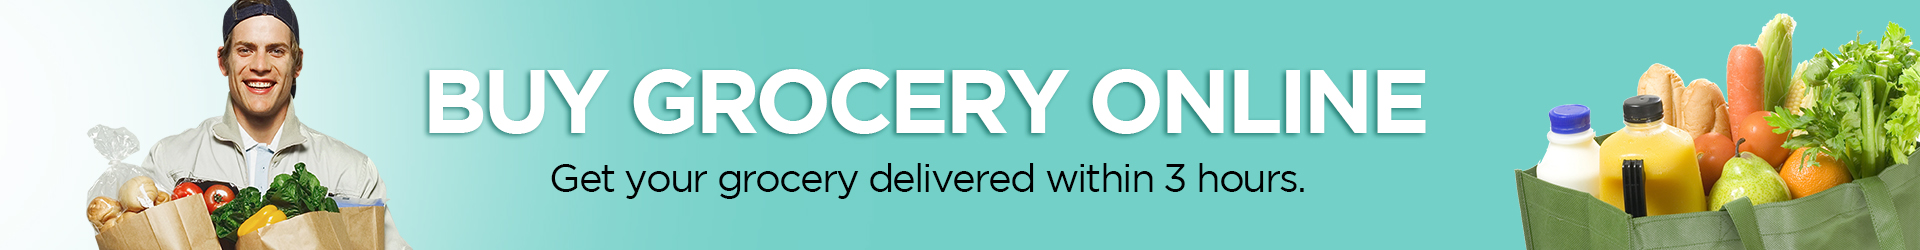
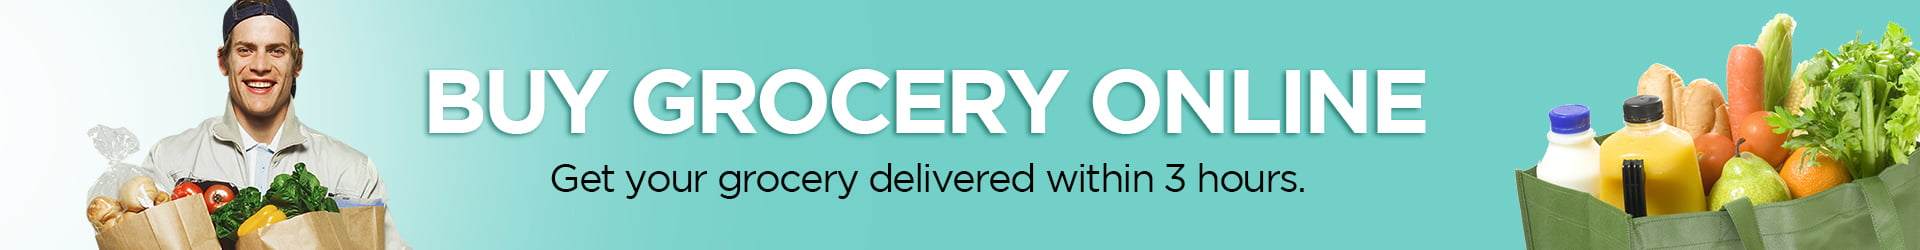
images optimized

diff --git a/src/components/Footer/Footer.tsx b/src/components/Footer/Footer.tsx
@@ -12,12 +12,8 @@ import { TypedSecondaryMenuQuery } from "./queries";
 
 // import easypaisa from "../../images/easypaisa.png";
 // import facebook from "../../images/facebook.png";
-
 // import instagram from "../../images/instagram.png";
 // import jazzcash from "../../images/jazzcash.png";
-// import emailIcon from "../../images/email.svg";
-// import locationIcon from "../../images/location.svg";
-// import phoneIcon from "../../images/phone.svg";
 import listIcon from "../../images/subcategories.svg";
 // import twitter from "../../images/twitter.png";
 // import youtube from "../../images/youtube.png";

diff --git a/config/webpack/config.base.js b/config/webpack/config.base.js
@@ -100,7 +100,7 @@ module.exports = ({ sourceDir, distDir }) => ({
     }),
     // PWA plugins
     new WebappWebpackPlugin({
-      logo: `${sourceDir}/images/android-chrome-192x192.png`,
+      logo: `${sourceDir}/images/ic_launcher.png`,
       prefix: "images/favicons/",
       favicons: {
         appName: "Erocery",
